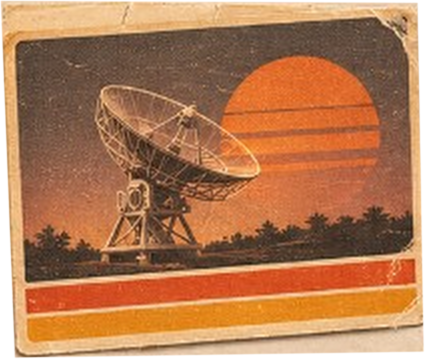
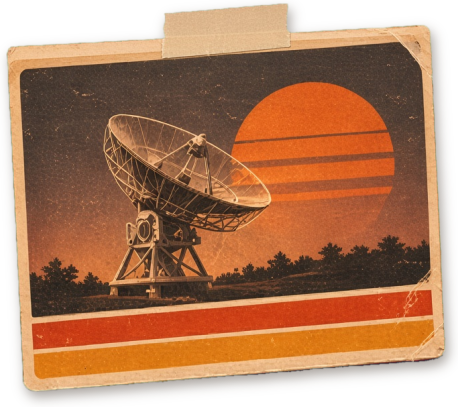
Fixed buttons

diff --git a/src/admin/frontend/src/dashboard/dashboard.css b/src/admin/frontend/src/dashboard/dashboard.css
@@ -215,10 +215,10 @@
 
 /* Wall art that stays pinned to the bottom of the panel while rows scroll over it. */
 .hc-sector--settings > .hc-sector__body {
-  background: url(/retro/illustrations/poster-dish.png) no-repeat center bottom 18px / min(88%, 212px) auto;
+  background: url(/retro/illustrations/poster-dish.png) no-repeat center bottom 26px / min(78%, 210px) auto;
 }
 .hc-sector--users > .hc-sector__body {
-  background: url(/retro/illustrations/retro-computer.png) no-repeat right -6px bottom 0 / min(100%, 206px) auto;
+  background: url(/retro/illustrations/retro-computer.png) no-repeat right 10px bottom 6px / min(86%, 220px) auto;
 }
 
 .hc-scroll::-webkit-scrollbar {
